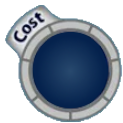
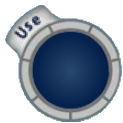
v0.8.17 options have USE label instead of COST label

diff --git a/src/CustomCreator.js b/src/CustomCreator.js
@@ -58,9 +58,10 @@ import JSZip from 'jszip';
 import { saveAs } from 'file-saver';
 
 
-const version = "0.8.16.1"
-const latest = "prep for new changes; 'new card' starts out as dupe of current card"
+const version = "0.8.17"
+const latest = "new 'USE' label for options, way overdue"
 
+// version 0.8.17   new 'USE' label for options, way overdue
 // version 0.8.16.x prep for new changes; 'new card' starts out as dupe of current card
 // version 0.8.15.x Assembly as green
 // version 0.8.14   colored frames, not loading immediately
